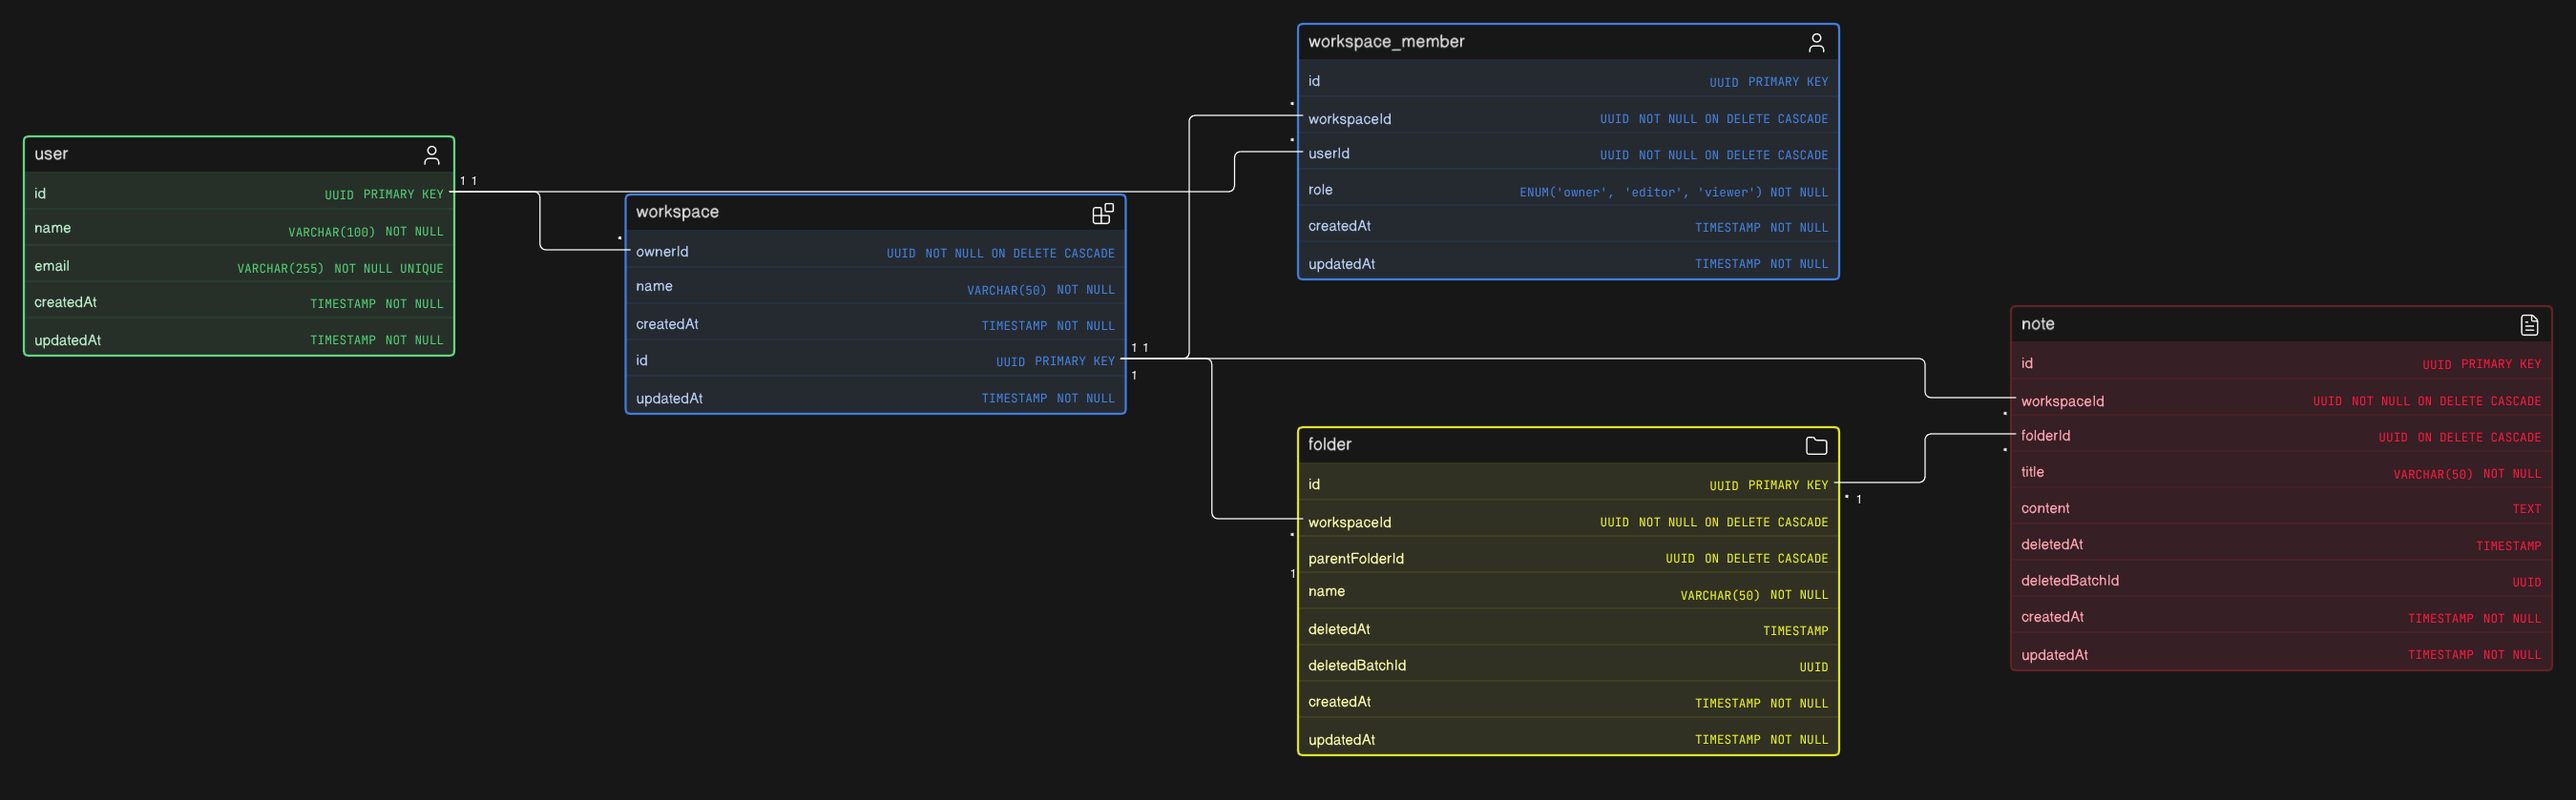
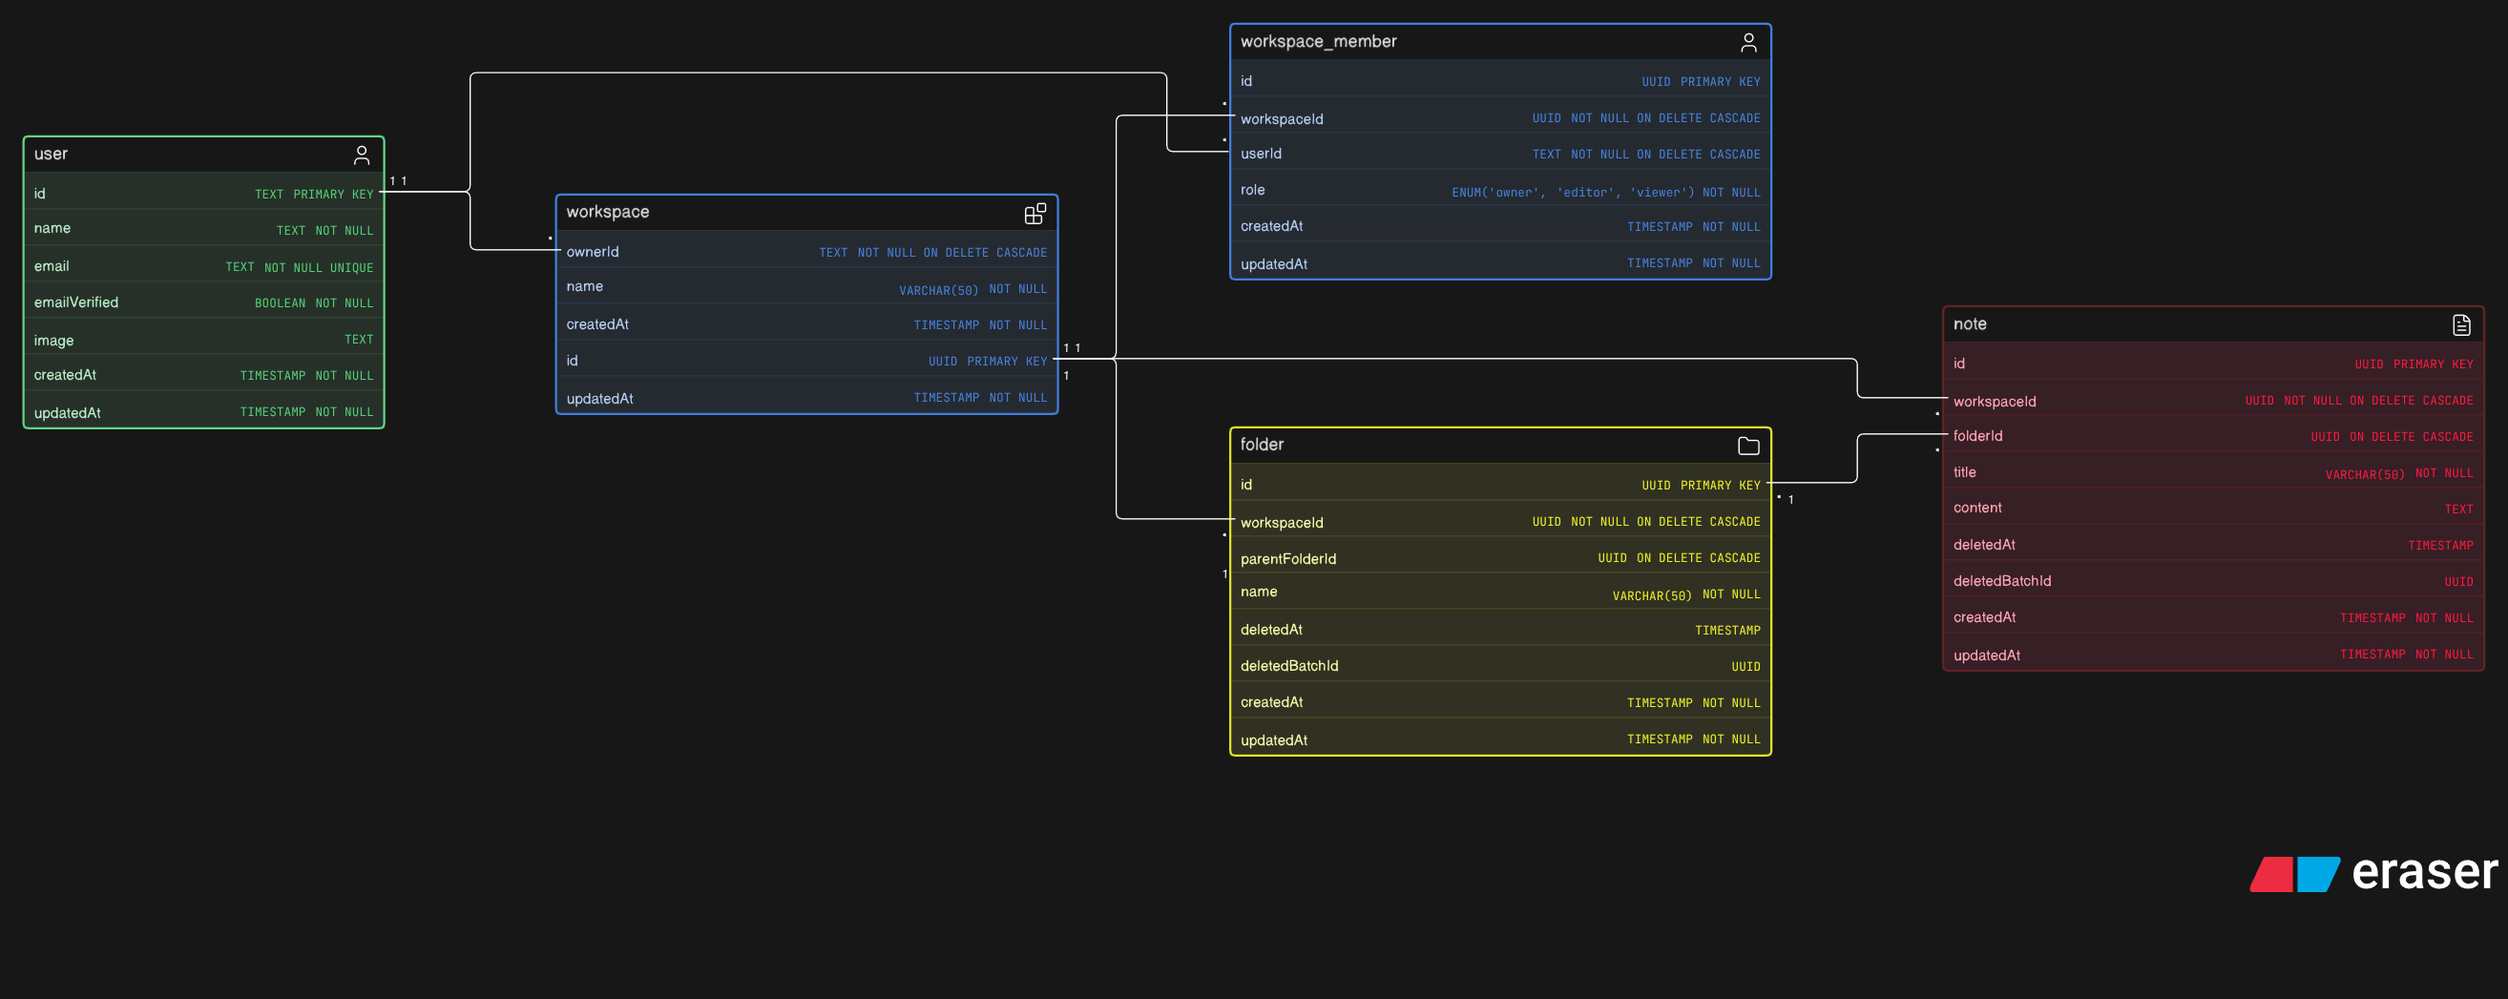
docs: correct the phase 1 er diagram and add its indexes
The diagram typed user.id, workspace.ownerId and workspace_member.userId
as UUID. They are TEXT, because Better Auth generates its own ids, which
the prose in doc.md already said. user.name and user.email were typed as
VARCHAR with lengths that do not exist either; both are TEXT. The two
columns hidden behind an "other better auth fields" placeholder are now
written out, so the table is complete as shown.

None of the eight indexes were recorded. They are read out of the schema
files rather than copied from the doc, and are now the only comments the
file carries. Everything else that was explained inline moved to doc.md,
which gains a line noting the diagram omits session, account and
verification.

Changed region(s): [[0.0, 0.0, 0.9985, 0.9607]]

diff --git a/docs/phase1/doc.md b/docs/phase1/doc.md
@@ -37,6 +37,8 @@ This describes the Phase 1 backend as it is built, not as it was planned. Everyt
 
 Ids are UUIDs, except on the Better Auth tables, where `user.id` is `text` because Better Auth generates its own ids. Anything referencing `user.id` is therefore also `text`.
 
+The diagram shows `user` only. `session`, `account` and `verification` are Better Auth's alone, are never written to by us, and are left out to keep it readable.
+
 ### Why a workspace has both `ownerId` and an owner role
 
 The two look redundant. They answer different questions:
